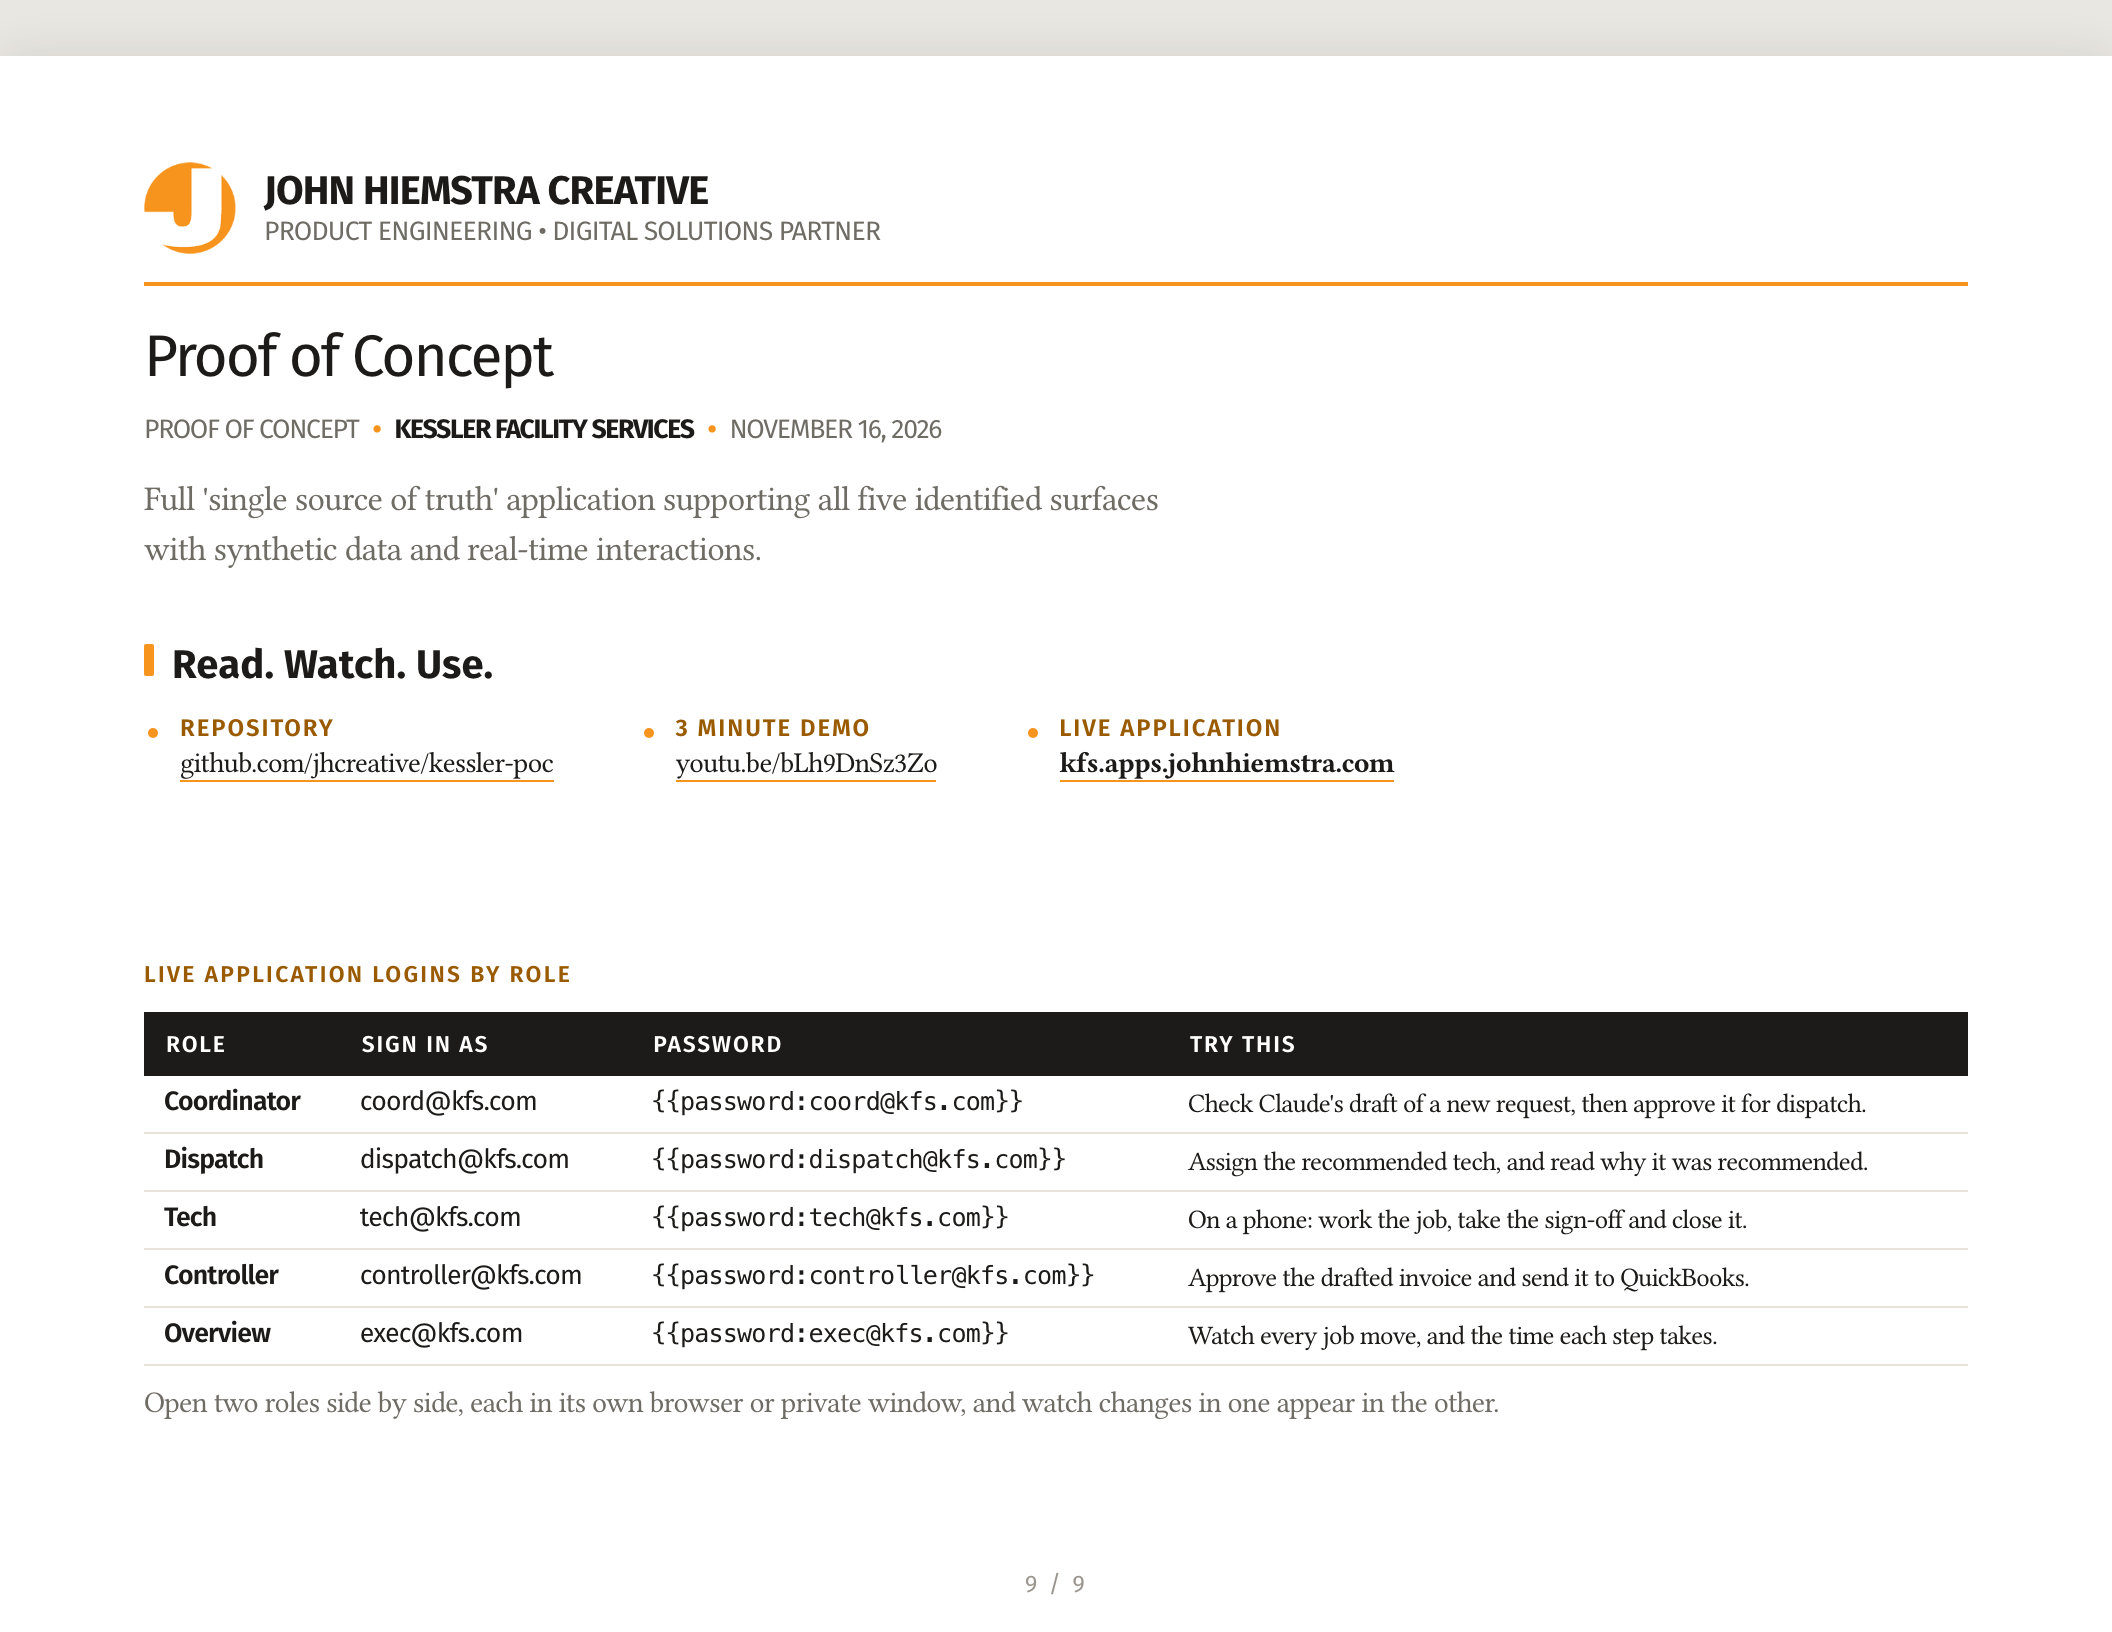
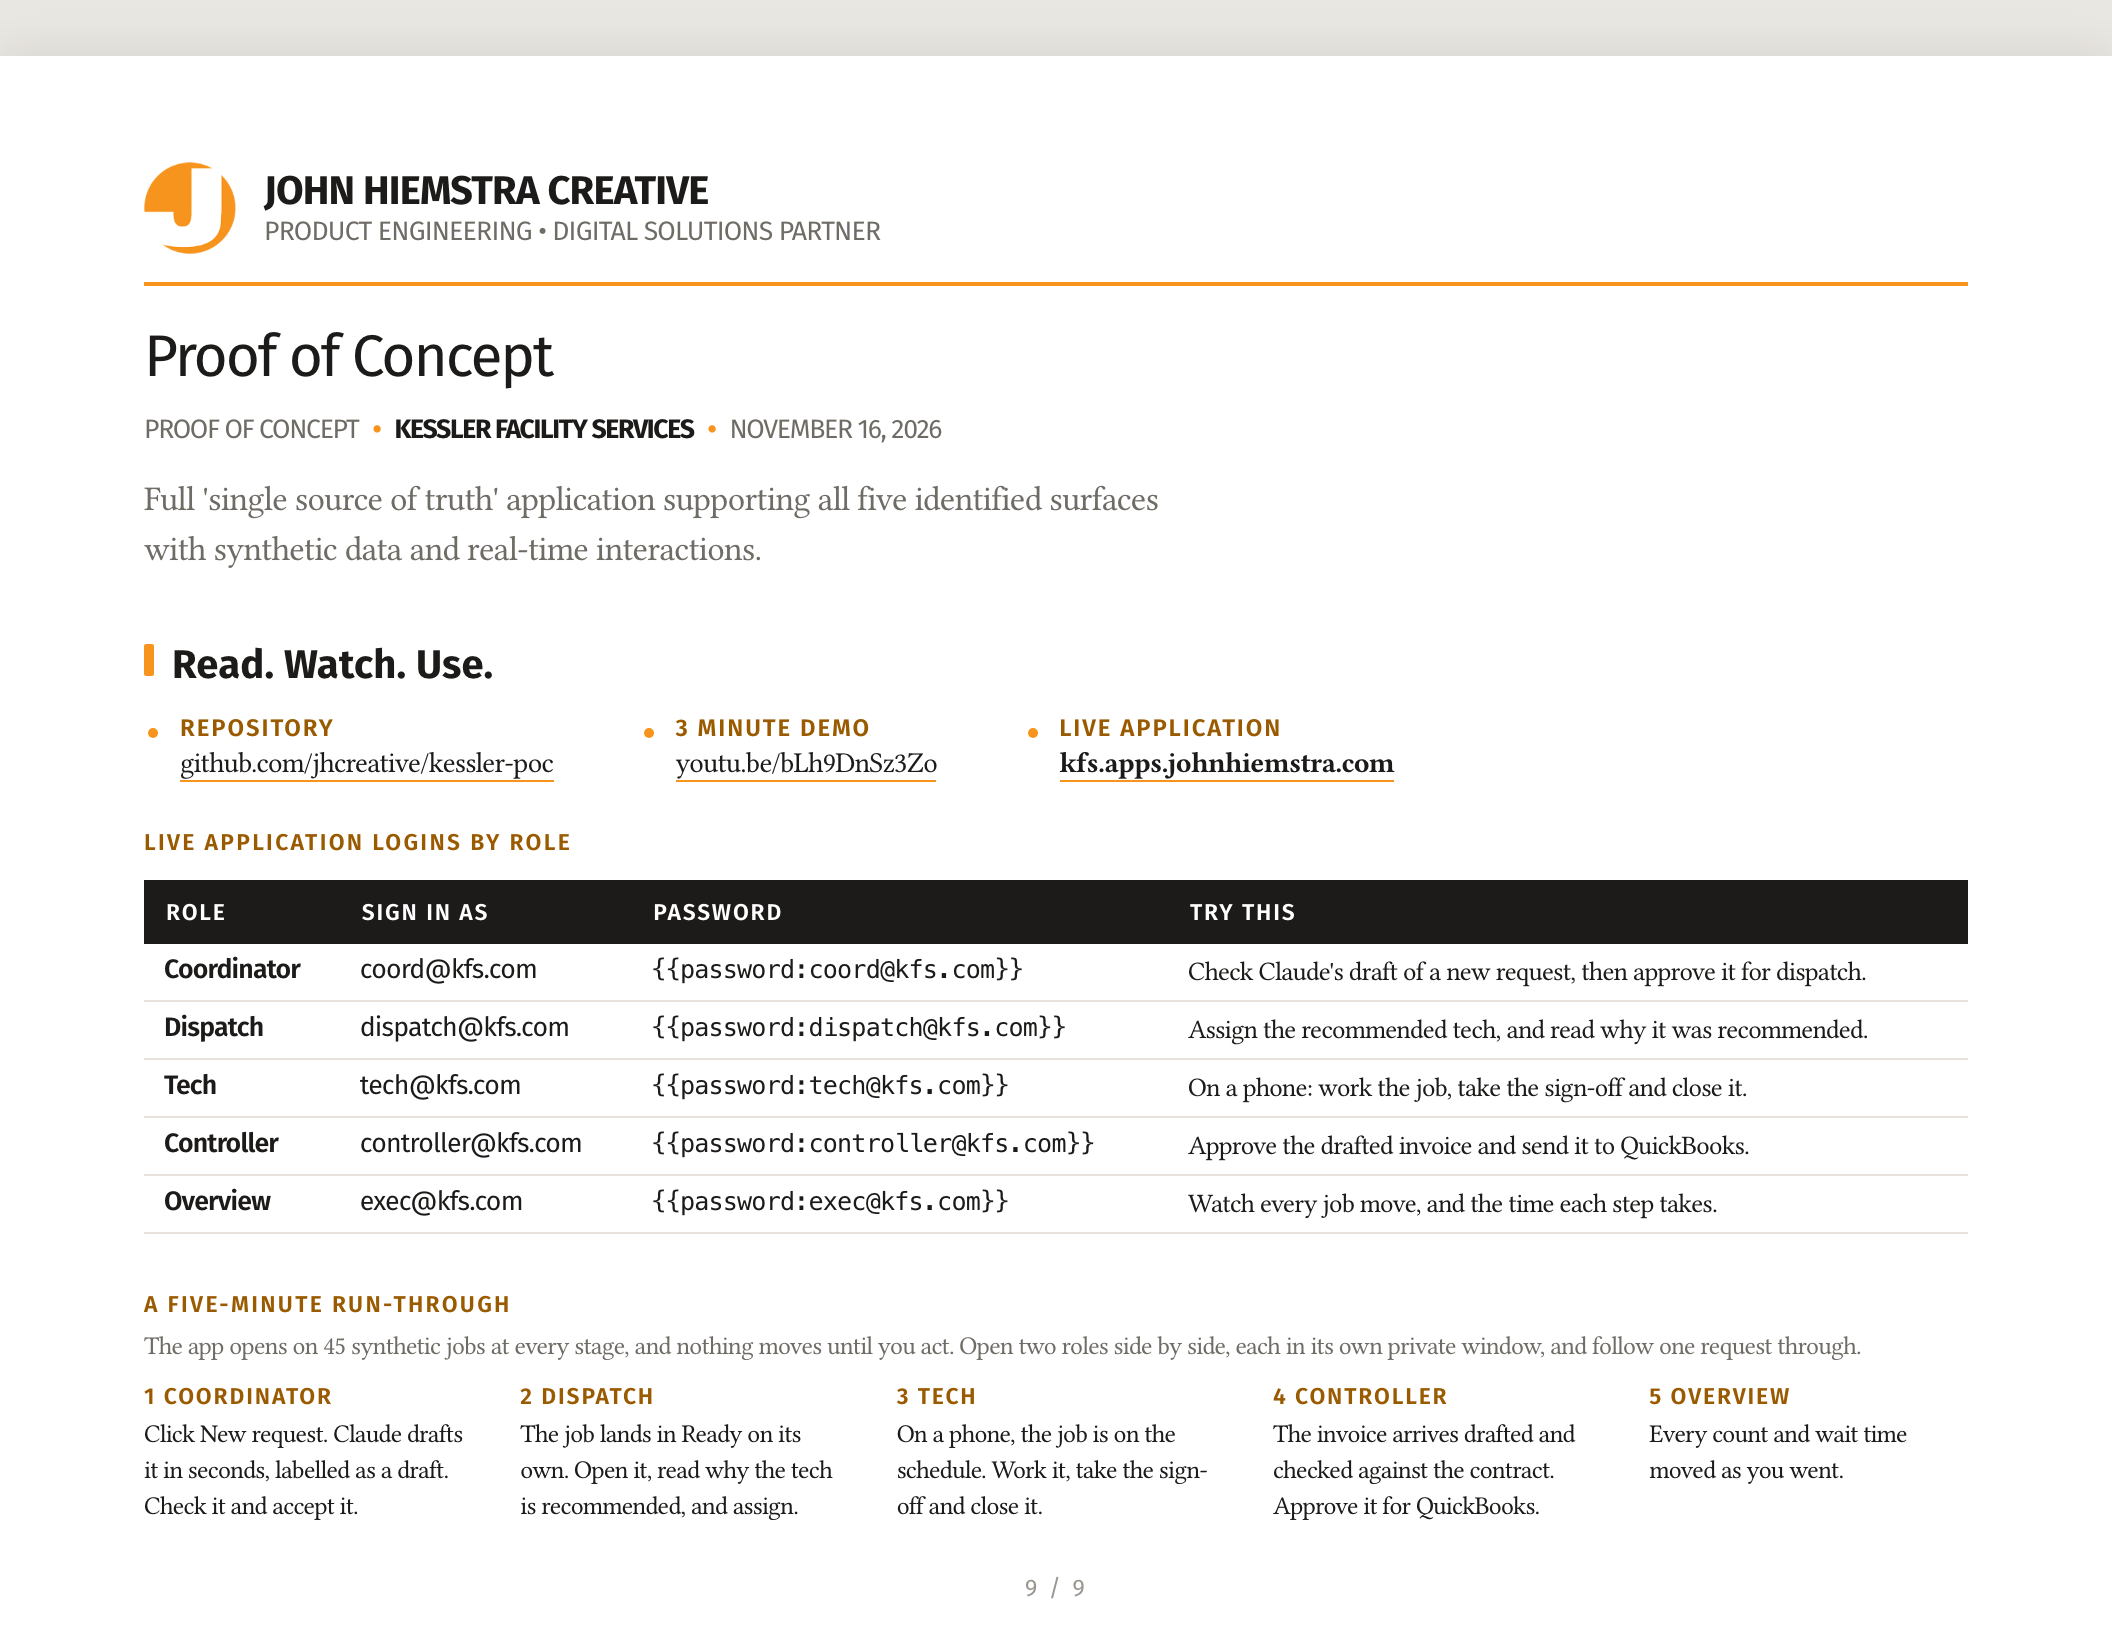
page 9: a five-minute run-through, one step per role; the side-by-side note folded into it (John's ask)

Changed region(s): [[0.0625, 0.5, 0.9375, 0.9375]]

diff --git a/docs/flow/final/page-9.html b/docs/flow/final/page-9.html
@@ -52,7 +52,6 @@
             </li>
           </ul>
         </div>
-        <br /><br />
         <div class="sec">
           <p class="k">LIVE APPLICATION LOGINS BY ROLE</p>
           <!--          <h2>Five logins, one record.</h2>-->
@@ -98,10 +97,28 @@
               </tr>
             </tbody>
           </table>
-          <p class="note">
-            Open two roles side by side, each in its own browser or private window, and watch changes in one appear in
-            the other.
+        </div>
+        <div class="sec">
+          <p class="k">A FIVE-MINUTE RUN-THROUGH</p>
+          <p class="note lead">
+            The app opens on 45 synthetic jobs at every stage, and nothing moves until you act. Open two roles side by
+            side, each in its own private window, and follow one request through.
           </p>
+          <ol class="steps">
+            <li>
+              <b>1 COORDINATOR</b>Click New request. Claude drafts it in seconds, labelled as a draft. Check it and
+              accept it.
+            </li>
+            <li>
+              <b>2 DISPATCH</b>The job lands in Ready on its own. Open it, read why the tech is recommended, and assign.
+            </li>
+            <li><b>3 TECH</b>On a phone, the job is on the schedule. Work it, take the sign-off and close it.</li>
+            <li>
+              <b>4 CONTROLLER</b>The invoice arrives drafted and checked against the contract. Approve it for
+              QuickBooks.
+            </li>
+            <li><b>5 OVERVIEW</b>Every count and wait time moved as you went.</li>
+          </ol>
         </div>
       </div>
       <div class="folio">9 / 9</div>

diff --git a/docs/flow/final/final.css b/docs/flow/final/final.css
@@ -80,3 +80,9 @@ table.opps.nine + .note{margin-top:4px;}
 .twocol{grid-auto-flow:row dense;}
 .twocol > .dek{grid-column:1;font-size:12.5pt;line-height:1.5;margin:0 0 12px;}
 .twocol > .sections{grid-column:2;grid-row:1 / span 12;}
+
+/* Page 9: the five-minute run-through, one step per role, in the links' type. */
+.split.stack .sec p.note.lead{margin:4px 0 0;font-size:9.6pt;line-height:1.4;}
+ol.steps{list-style:none;padding:0;margin:8px 0 0;display:grid;grid-template-columns:repeat(5,1fr);column-gap:0.3in;}
+ol.steps li{font-size:9.6pt;line-height:1.38;text-wrap:pretty;}
+ol.steps li b{font-family:'Fira Sans',sans-serif;font-weight:600;display:block;font-size:8.6pt;letter-spacing:.08em;color:#9a5a00;margin-bottom:2px;}
